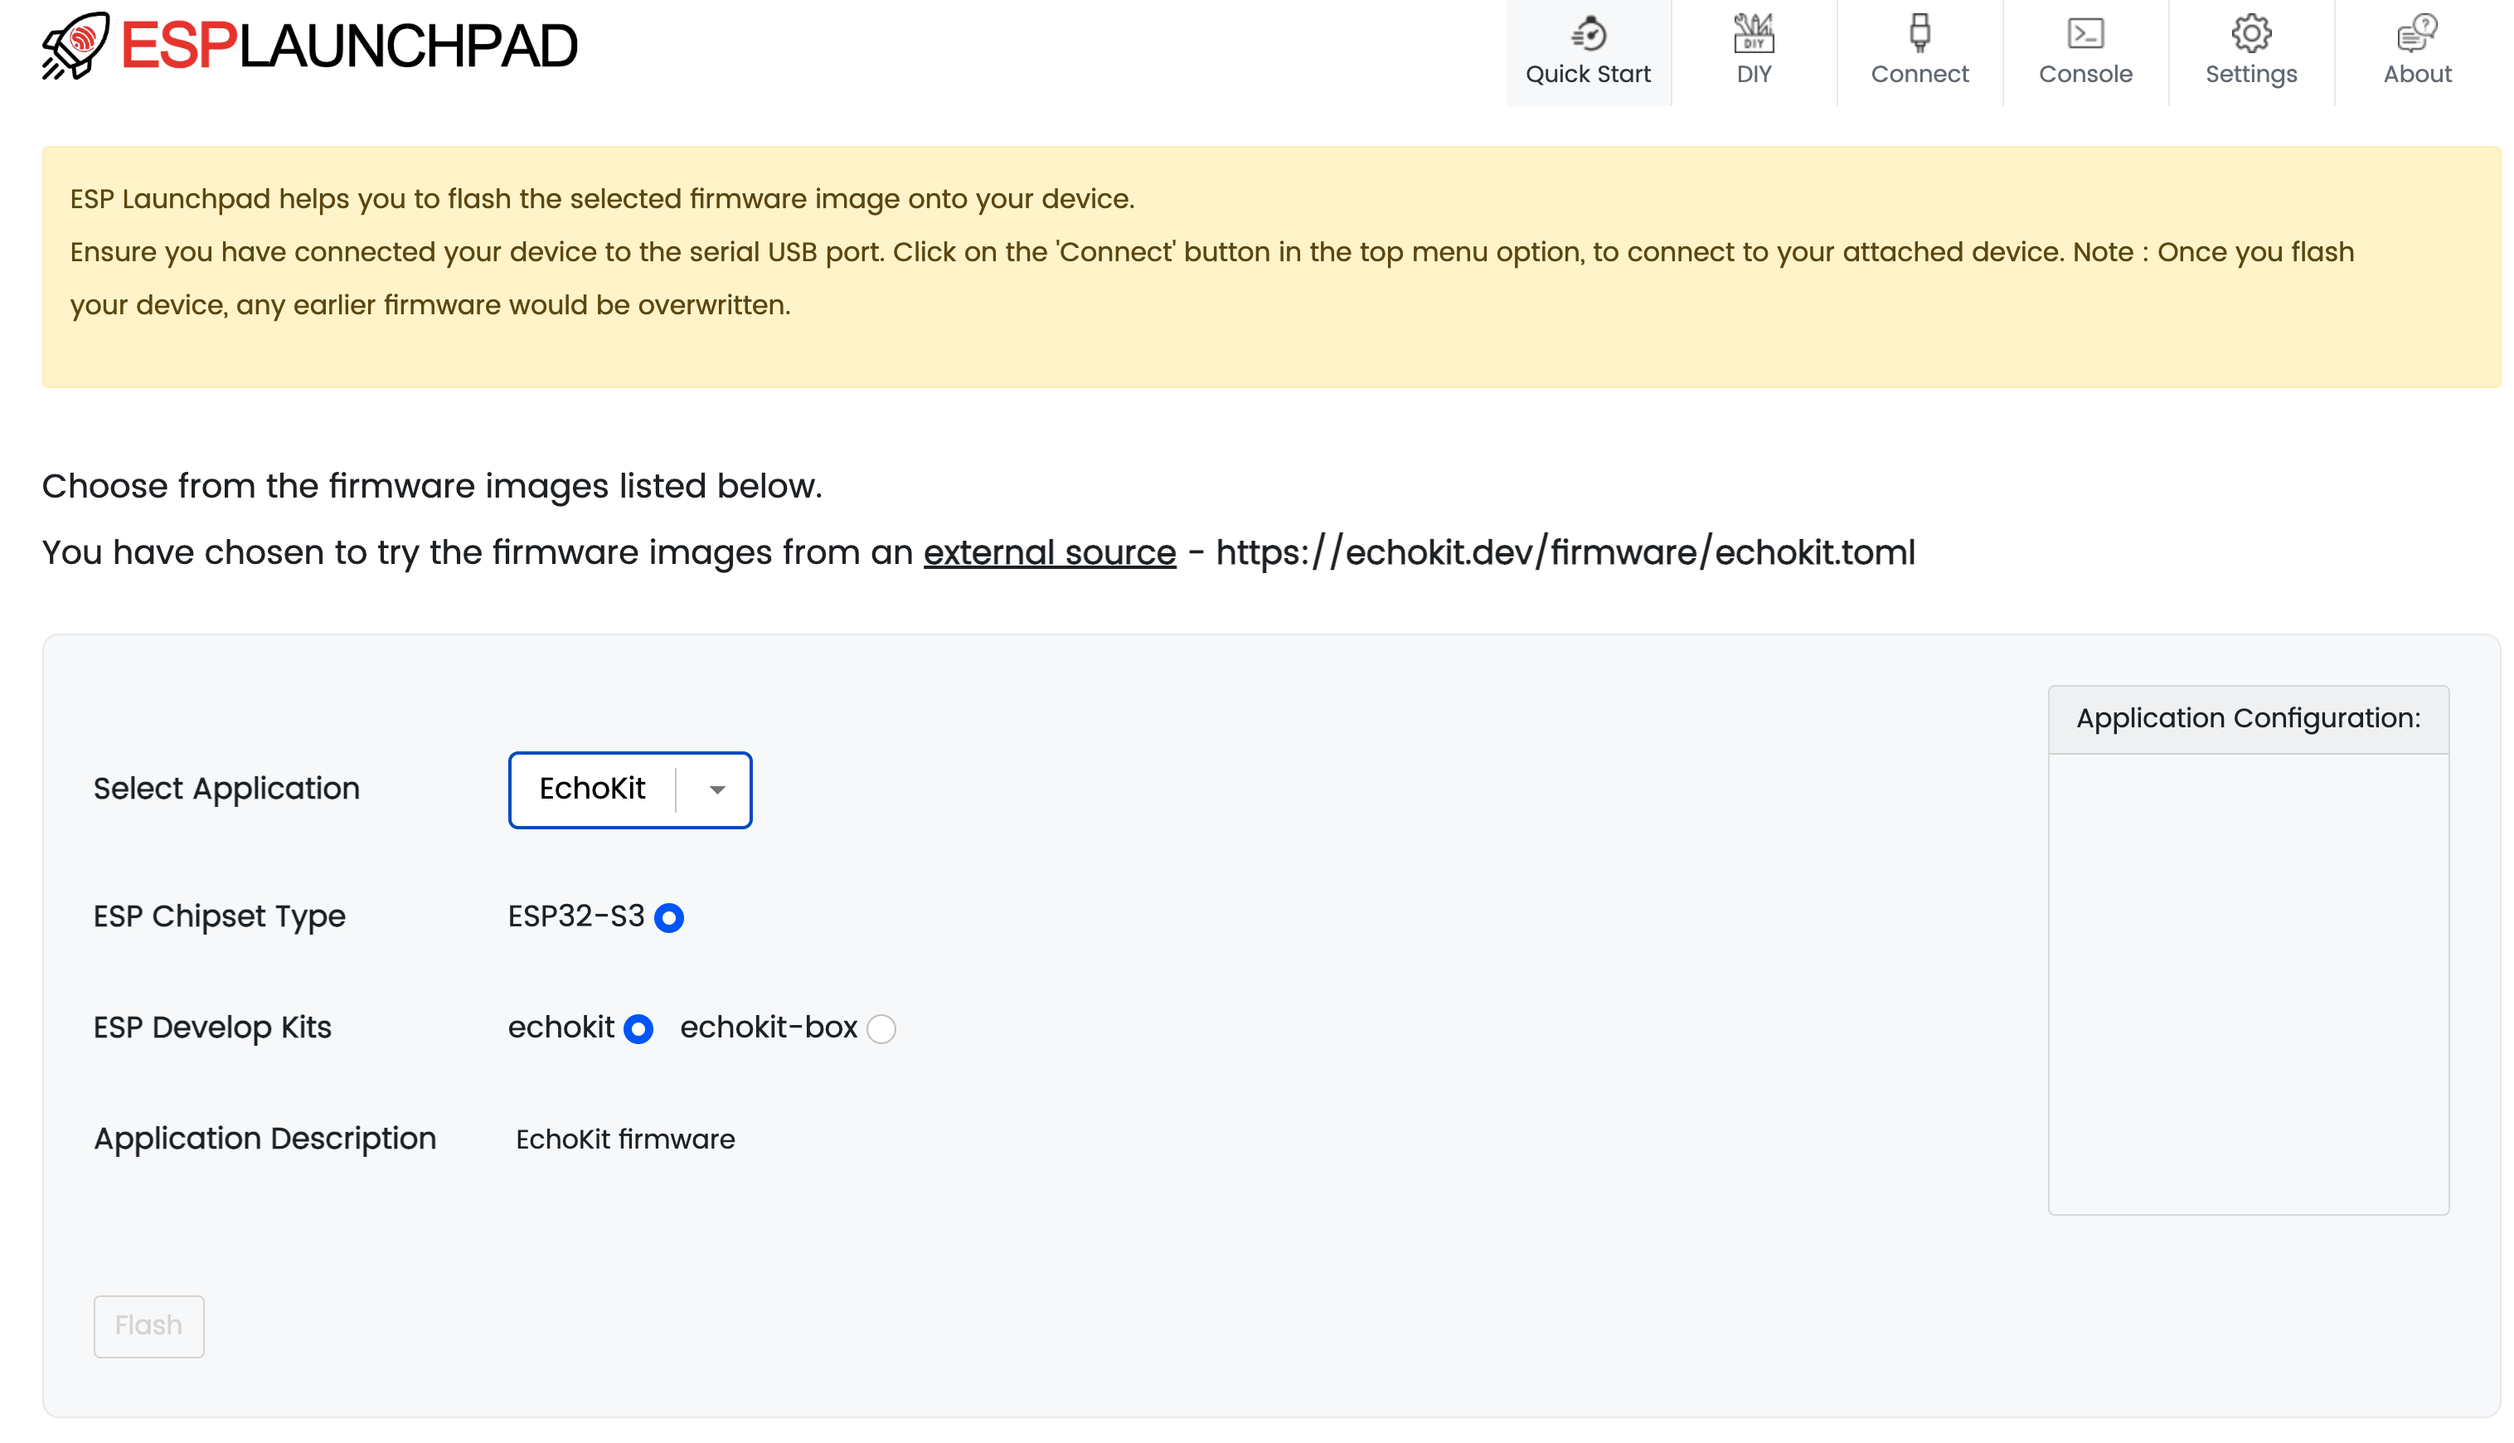
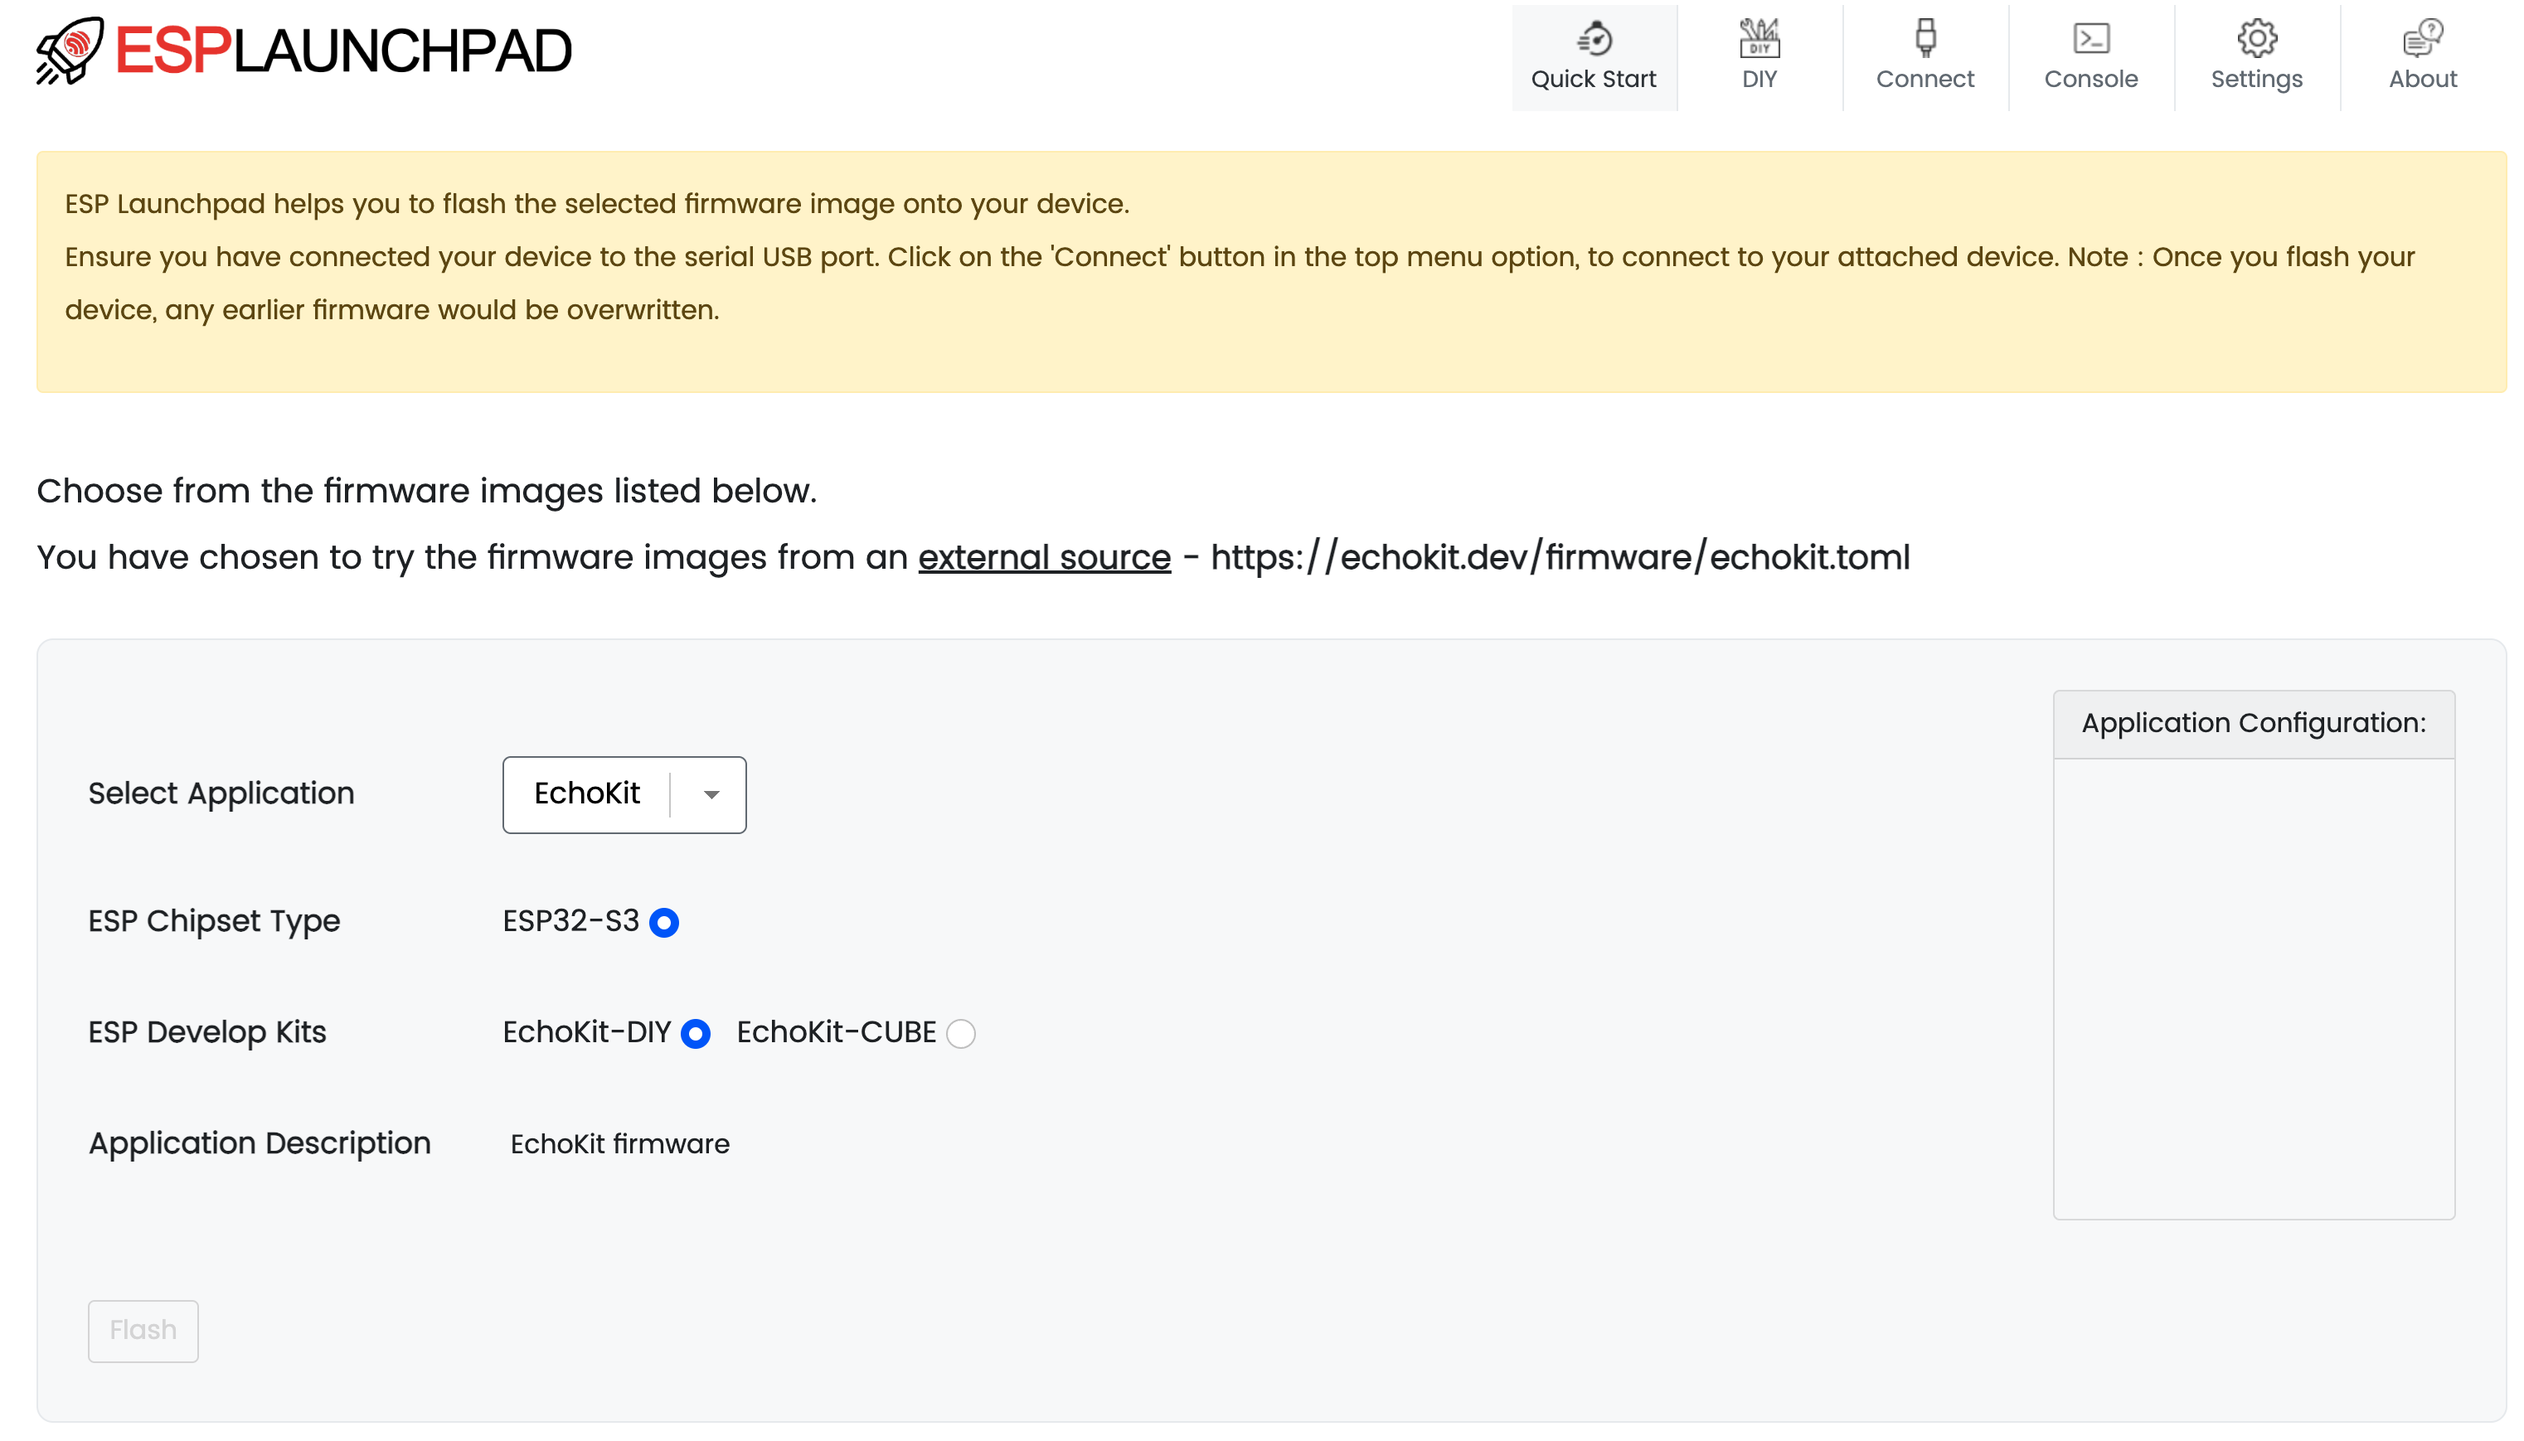
Update

diff --git a/doc/docs/hardware/flash-firmware.md b/doc/docs/hardware/flash-firmware.md
@@ -16,15 +16,26 @@ You need to use an USB cable to connect between your computer and the USB-C port
 
 ## 2. Use the ESP32 launchpad to flash
 
-[Load the launchpad](https://espressif.github.io/esp-launchpad/?flashConfigURL=https://echokit.dev/firmware/echokit.toml) and follow instructions to "Connect" and then "Flash" for [EchoKit-DIY](https://echokit.dev/echokit_diy.html) or [EchoKit-CUBE](https://echokit.dev/echokit_cube.html) respectively.
+[Load the launchpad](https://espressif.github.io/esp-launchpad/?flashConfigURL=https://echokit.dev/firmware/echokit.toml) and select the "ESP Develop Kits" for the device you have - [EchoKit-DIY](https://echokit.dev/echokit_diy.html) or [EchoKit-CUBE](https://echokit.dev/echokit_cube.html).
 
 ![ESP32 launchpad](launchpad.png)
 
-> If it fails, you may force the EchoKit device to enter the "flashing" mode by pressing down the small `RST` button on the main board (maybe behind the screen), and at the time, press and release the `K0` (or `BOOT`) button to the left side of the device.
+Click on "Connect" at the top menu to connect to your device via the USB cable.
+
+> TROUBLESHOOTING: If it fails, you may force the EchoKit device to enter the "flashing" mode. EchoKit-DIY: Press down the small `RST` button on the main board (maybe behind the screen), and at the time, press and release the `K0` (or `BOOT`) button to the left side of the device.
+
+Click on "Flash" at the bottom of the page to start flashing firmware onto the device. 
+You will see a console showing the flashing progress. 
+
+Once it is done. Click on the "Reset Device" button as instructed.
+
+![ESP32 launchpad](launchpad_reset.png)
 
 **After completing this process, your EchoKit should display a QR code and instructions on its screen.**
 
-![alt text](display.png)
+![EchoKit is ready](display.png)
+
+Next, go to the [Quick start guide](../quick-start.md) to configure your EchoKit device for network access.
 
 ## 3. Use a command line tool to flash
 
